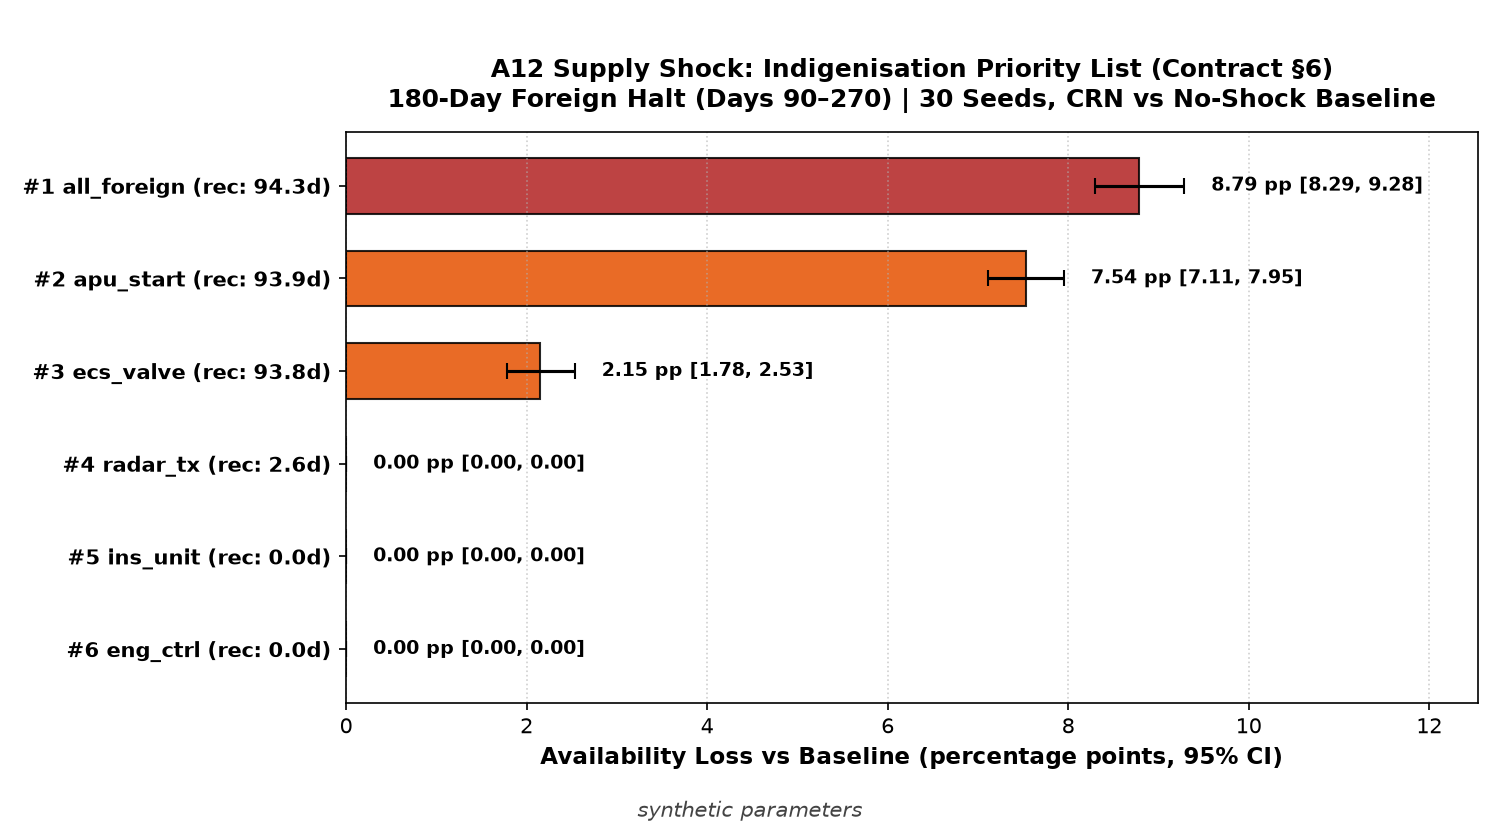
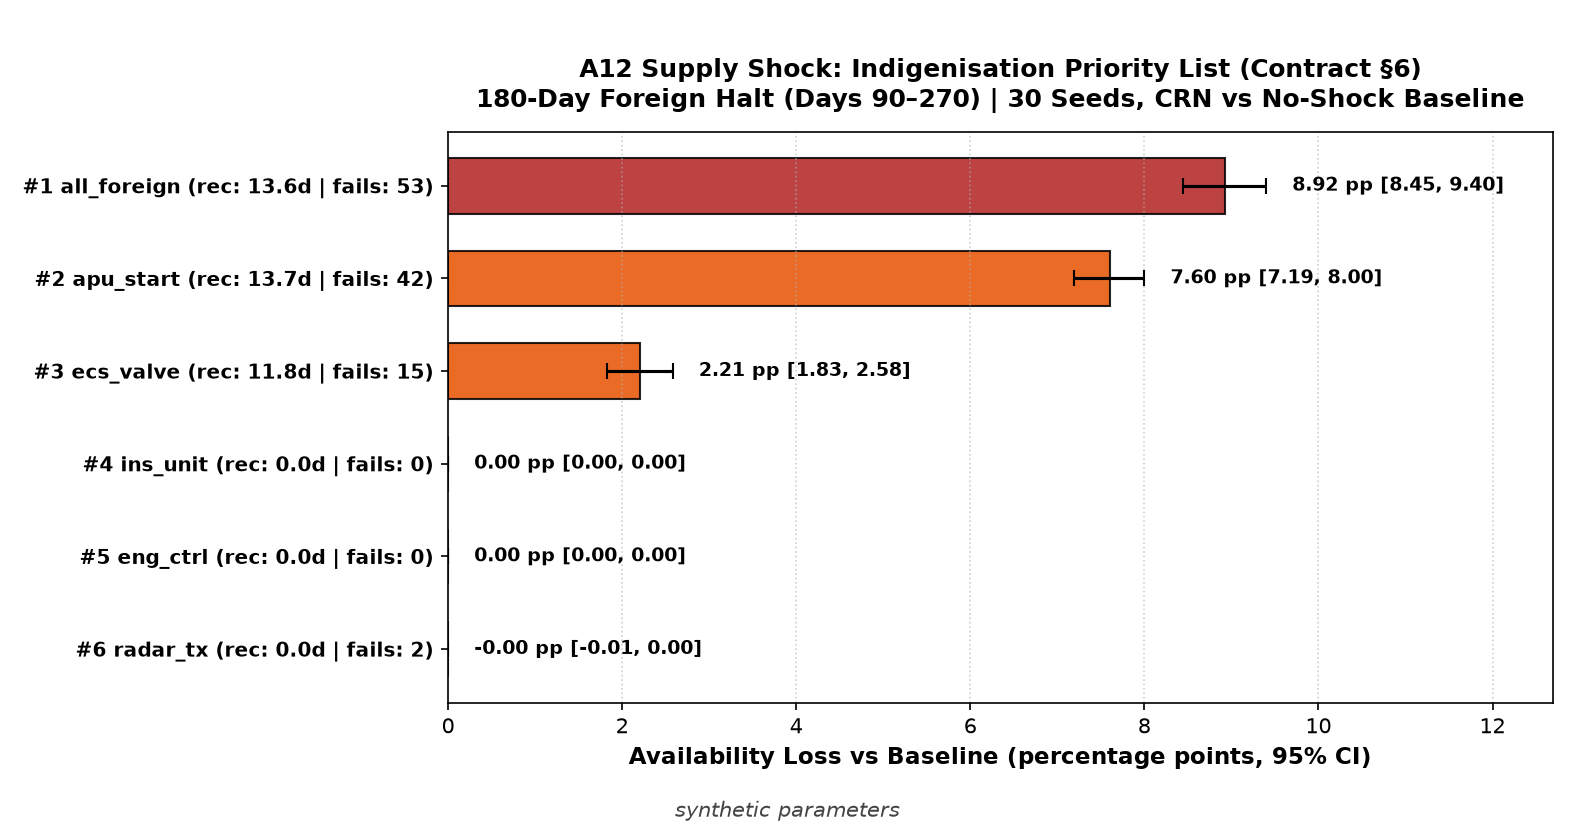
fix(a12): uncensored recovery and driver columns

diff --git a/scripts/supply_shock.py b/scripts/supply_shock.py
@@ -5,6 +5,7 @@ Evaluates the vulnerability of the fleet to foreign supply halts:
 - At day 90, halt foreign new buys and foreign repairs for 180 days (days 90..269)
 - Evaluated for each foreign LRU singly and all foreign LRUs together
 - 30 seeds with Common Random Numbers (CRN) vs no-shock baseline
+- Horizon: 545 days (one full year after shock ends)
 
 Outputs:
   - results/supply_shock.csv
@@ -16,11 +17,13 @@ Usage:
 
 from __future__ import annotations
 
-import json
 import multiprocessing as mp
 import sys
 from pathlib import Path
 
+import matplotlib
+
+matplotlib.use("Agg")
 import matplotlib.pyplot as plt
 import numpy as np
 import pandas as pd
@@ -38,6 +41,7 @@ BOOT_SEED = 42
 SHOCK_START = 90
 SHOCK_DURATION = 180
 SHOCK_END = SHOCK_START + SHOCK_DURATION
+HORIZON_DAYS = 545
 
 
 def bootstrap_ci(
@@ -69,7 +73,6 @@ def _run_shock_seed_worker(args: tuple) -> dict:
 
     # 1. Baseline run (no shock)
     res_base = run("shikra_v2", cfg, rul_shikra, params_dict, seed, days)
-    base_svc = res_base.kpis["serviceability"]
 
     # 2. Shock run
     shock_cfg = dict(cfg)
@@ -79,27 +82,42 @@ def _run_shock_seed_worker(args: tuple) -> dict:
         "lrus": shock_lrus,
     }
     res_shock = run("shikra_v2", shock_cfg, rul_shikra, params_dict, seed, days)
-    shock_svc = res_shock.kpis["serviceability"]
 
-    loss_pp = (base_svc - shock_svc) * 100
+    # Availability loss over days 90-365 (comparable with previous 365-day numbers)
+    base_svc_365 = float(res_base.daily.loc[:364, "mc"].mean() / 54)
+    shock_svc_365 = float(res_shock.daily.loc[:364, "mc"].mean() / 54)
+    loss_pp = (base_svc_365 - shock_svc_365) * 100
 
-    # 3. Compute recovery days: days after SHOCK_END (day 270) until shock backlog clears
-    rec_days = 0
+    # Availability loss over full 545-day horizon
+    base_svc_545 = float(res_base.daily["mc"].mean() / 54)
+    shock_svc_545 = float(res_shock.daily["mc"].mean() / 54)
+    loss_pp_545 = (base_svc_545 - shock_svc_545) * 100
+
+    # 3. Compute recovery days: first day after shock end (day 270) where 14-day rolling mean MC
+    # of the shock run is within 1 tail of the baseline run
+    roll_b = res_base.daily["mc"].rolling(14).mean()
+    roll_s = res_shock.daily["mc"].rolling(14).mean()
+
+    rec_days = days - SHOCK_END  # default to remaining horizon (275)
+    recovered = False
     for d in range(SHOCK_END, days):
-        miss_s = sum(res_shock.daily.loc[d, "lru_missing"][lid] for lid in shock_lrus)
-        miss_b = sum(res_base.daily.loc[d, "lru_missing"][lid] for lid in shock_lrus)
-        mc_s = res_shock.daily.loc[d, "mc"]
-        mc_b = res_base.daily.loc[d, "mc"]
-        if miss_s > miss_b or mc_s < mc_b:
-            rec_days = max(rec_days, d - SHOCK_END + 1)
+        if roll_b.loc[d] - roll_s.loc[d] <= 1.0:
+            rec_days = d - SHOCK_END
+            recovered = True
+            break
+
+    # 4. Failures in shock window (days 90..269)
+    shock_fails_dict = res_shock.kpis.get("lru_failures_shock_window", {})
+    failures_in_window = sum(shock_fails_dict.get(lid, 0) for lid in shock_lrus)
 
     return {
         "scenario": scenario,
         "seed": seed,
         "loss_pp": loss_pp,
+        "loss_pp_545": loss_pp_545,
         "recovery_days": rec_days,
-        "base_svc": base_svc,
-        "shock_svc": shock_svc,
+        "recovered": recovered,
+        "failures_in_window": failures_in_window,
     }
 
 
@@ -108,9 +126,8 @@ def run_supply_shock_experiments() -> pd.DataFrame:
     with CONFIG_PATH.open(encoding="utf-8") as f:
         config = yaml.safe_load(f)
     with PARAMS_PATH.open(encoding="utf-8") as f:
-        params = json.load(f)
+        params = yaml.safe_load(f) if PARAMS_PATH.suffix in (".yaml", ".yml") else pd.read_json(PARAMS_PATH, typ="series").to_dict()
 
-    days = config["ops"]["days"]
     foreign_lrus = [lru["id"] for lru in config["lrus"] if lru.get("source") == "foreign"]
 
     # Scenarios: all foreign together first, then each singly
@@ -120,24 +137,40 @@ def run_supply_shock_experiments() -> pd.DataFrame:
     for sc in scenarios:
         shock_lrus = foreign_lrus if sc == "all_foreign" else [sc]
         for seed in range(1, N_SEEDS + 1):
-            tasks.append((sc, shock_lrus, seed, config, params, days))
+            tasks.append((sc, shock_lrus, seed, config, params, HORIZON_DAYS))
 
     n_workers = max(1, mp.cpu_count() - 1)
-    print(f"Running supply shock experiments ({len(tasks)} runs) on {n_workers} workers …")
+    print(f"Running uncensored supply shock experiments ({len(tasks)} runs to 545d) on {n_workers} workers …")
 
     with mp.Pool(processes=n_workers) as pool:
         records = pool.map(_run_shock_seed_worker, tasks)
 
     df_raw = pd.DataFrame(records)
 
+    lru_map = {lru["id"]: lru for lru in config["lrus"]}
+
     summary_rows = []
     for sc in scenarios:
         sub = df_raw[df_raw["scenario"] == sc]
         loss_vals = sub["loss_pp"].values
+        loss_545_vals = sub["loss_pp_545"].values
         rec_vals = sub["recovery_days"].values
+        recov_vals = sub["recovered"].values
+        fail_vals = sub["failures_in_window"].values
 
         l_mean, l_lo, l_hi = bootstrap_ci(loss_vals)
+        l545_mean, _, _ = bootstrap_ci(loss_545_vals)
         r_mean = float(rec_vals.mean())
+        all_recov = bool(all(recov_vals))
+        f_mean = float(fail_vals.mean())
+
+        if sc == "all_foreign":
+            stock_base_total = sum(int(lru.get("stock_base", 1)) * 3 for lru in config["lrus"] if lru.get("source") == "foreign")
+            stock_depot = sum(int(lru.get("stock_depot", 2)) for lru in config["lrus"] if lru.get("source") == "foreign")
+        else:
+            lru_cfg = lru_map[sc]
+            stock_base_total = int(lru_cfg.get("stock_base", 1)) * 3
+            stock_depot = int(lru_cfg.get("stock_depot", 2))
 
         summary_rows.append(
             {
@@ -146,7 +179,12 @@ def run_supply_shock_experiments() -> pd.DataFrame:
                 "availability_loss_pp": l_mean,
                 "ci_lo": l_lo,
                 "ci_hi": l_hi,
+                "availability_loss_pp_545": l545_mean,
                 "recovery_days": round(r_mean, 1),
+                "recovered": all_recov,
+                "failures_in_shock_window_mean": round(f_mean, 1),
+                "stock_base_total": stock_base_total,
+                "stock_depot": stock_depot,
             }
         )
 
@@ -163,7 +201,6 @@ def run_supply_shock_experiments() -> pd.DataFrame:
 
 def plot_supply_shock(df: pd.DataFrame, out_path: Path) -> None:
     """Plot publication-quality ranked indigenisation priority bar chart."""
-    # Plot in order from bottom to top for horizontal bar chart
     plot_df = df.iloc[::-1].reset_index(drop=True)
 
     y_pos = np.arange(len(plot_df))
@@ -174,11 +211,11 @@ def plot_supply_shock(df: pd.DataFrame, out_path: Path) -> None:
     err_high = np.maximum(0, ci_hi - losses)
 
     labels = [
-        f"#{row['rank']} {row['lru_id']} (rec: {row['recovery_days']:.1f}d)"
+        f"#{row['rank']} {row['lru_id']} (rec: {row['recovery_days']:.1f}d | fails: {row['failures_in_shock_window_mean']:.0f})"
         for _, row in plot_df.iterrows()
     ]
 
-    fig, ax = plt.subplots(figsize=(10, 5.5), dpi=150)
+    fig, ax = plt.subplots(figsize=(10.5, 5.5), dpi=150)
 
     colors = [
         "#b22222" if lid == "all_foreign" else ("#e65100" if val > 1.0 else "#1976d2")
@@ -197,7 +234,7 @@ def plot_supply_shock(df: pd.DataFrame, out_path: Path) -> None:
     )
 
     ax.set_yticks(y_pos)
-    ax.set_yticklabels(labels, fontsize=10, fontweight="bold")
+    ax.set_yticklabels(labels, fontsize=9.5, fontweight="bold")
     ax.set_xlabel("Availability Loss vs Baseline (percentage points, 95% CI)", fontsize=11, fontweight="bold")
     ax.set_title(
         "A12 Supply Shock: Indigenisation Priority List (Contract §6)\n"
@@ -208,7 +245,6 @@ def plot_supply_shock(df: pd.DataFrame, out_path: Path) -> None:
     )
     ax.grid(True, linestyle=":", alpha=0.6, axis="x")
 
-    # Add numeric labels to bars
     for bar, val, lo, hi in zip(bars, losses, ci_lo, ci_hi):
         width = bar.get_width()
         ax.text(
@@ -235,7 +271,7 @@ def plot_supply_shock(df: pd.DataFrame, out_path: Path) -> None:
     )
 
     fig.tight_layout(rect=[0, 0.04, 1, 0.96])
-    fig.savefig(out_path, dpi=150)
+    fig.savefig(out_path, dpi=150, metadata={"Software": None, "CreationDate": None})
     plt.close(fig)
     print(f"Supply shock figure saved -> {out_path}")
 

diff --git a/shikra/sim/engine.py b/shikra/sim/engine.py
@@ -316,6 +316,7 @@ class FleetSim:
         lru_in_repair: list[dict] = []
         lru_inbound_transfers: list[dict] = []
         lru_waiting: dict[str, list[tuple[int, int]]] = {lru["id"]: [] for lru in self.lru_list}
+        lru_failures_shock_window: dict[str, int] = {lru["id"]: 0 for lru in self.lru_list}
 
         # lru_state[tail][lru_id] = {sorties_until_fail, missing, queue_ptr, has_lru, maint_type}
         lru_state: dict[int, dict[str, dict]] = {}
@@ -595,6 +596,8 @@ class FleetSim:
                         if ls["sorties_flown"] >= ls["sorties_until_fail"]:
                             ls["missing"] = True
                             ls["has_lru"] = False
+                            if 90 <= day < 270:
+                                lru_failures_shock_window[lid] += 1
                             # Failed unit goes to repair and returns to depot stock
                             repair_tat = max(1, int(lru["repair_tat_days"] * self.pm))
                             if self.shock_lrus and lid in self.shock_lrus and self.shock_start <= day < self.shock_end:
@@ -743,6 +746,7 @@ class FleetSim:
             "flying_task_pct": (
                 sorties_flown / sorties_demanded if sorties_demanded > 0 else 0.0
             ),
+            "lru_failures_shock_window": lru_failures_shock_window,
         }
 
         return SimResult(
